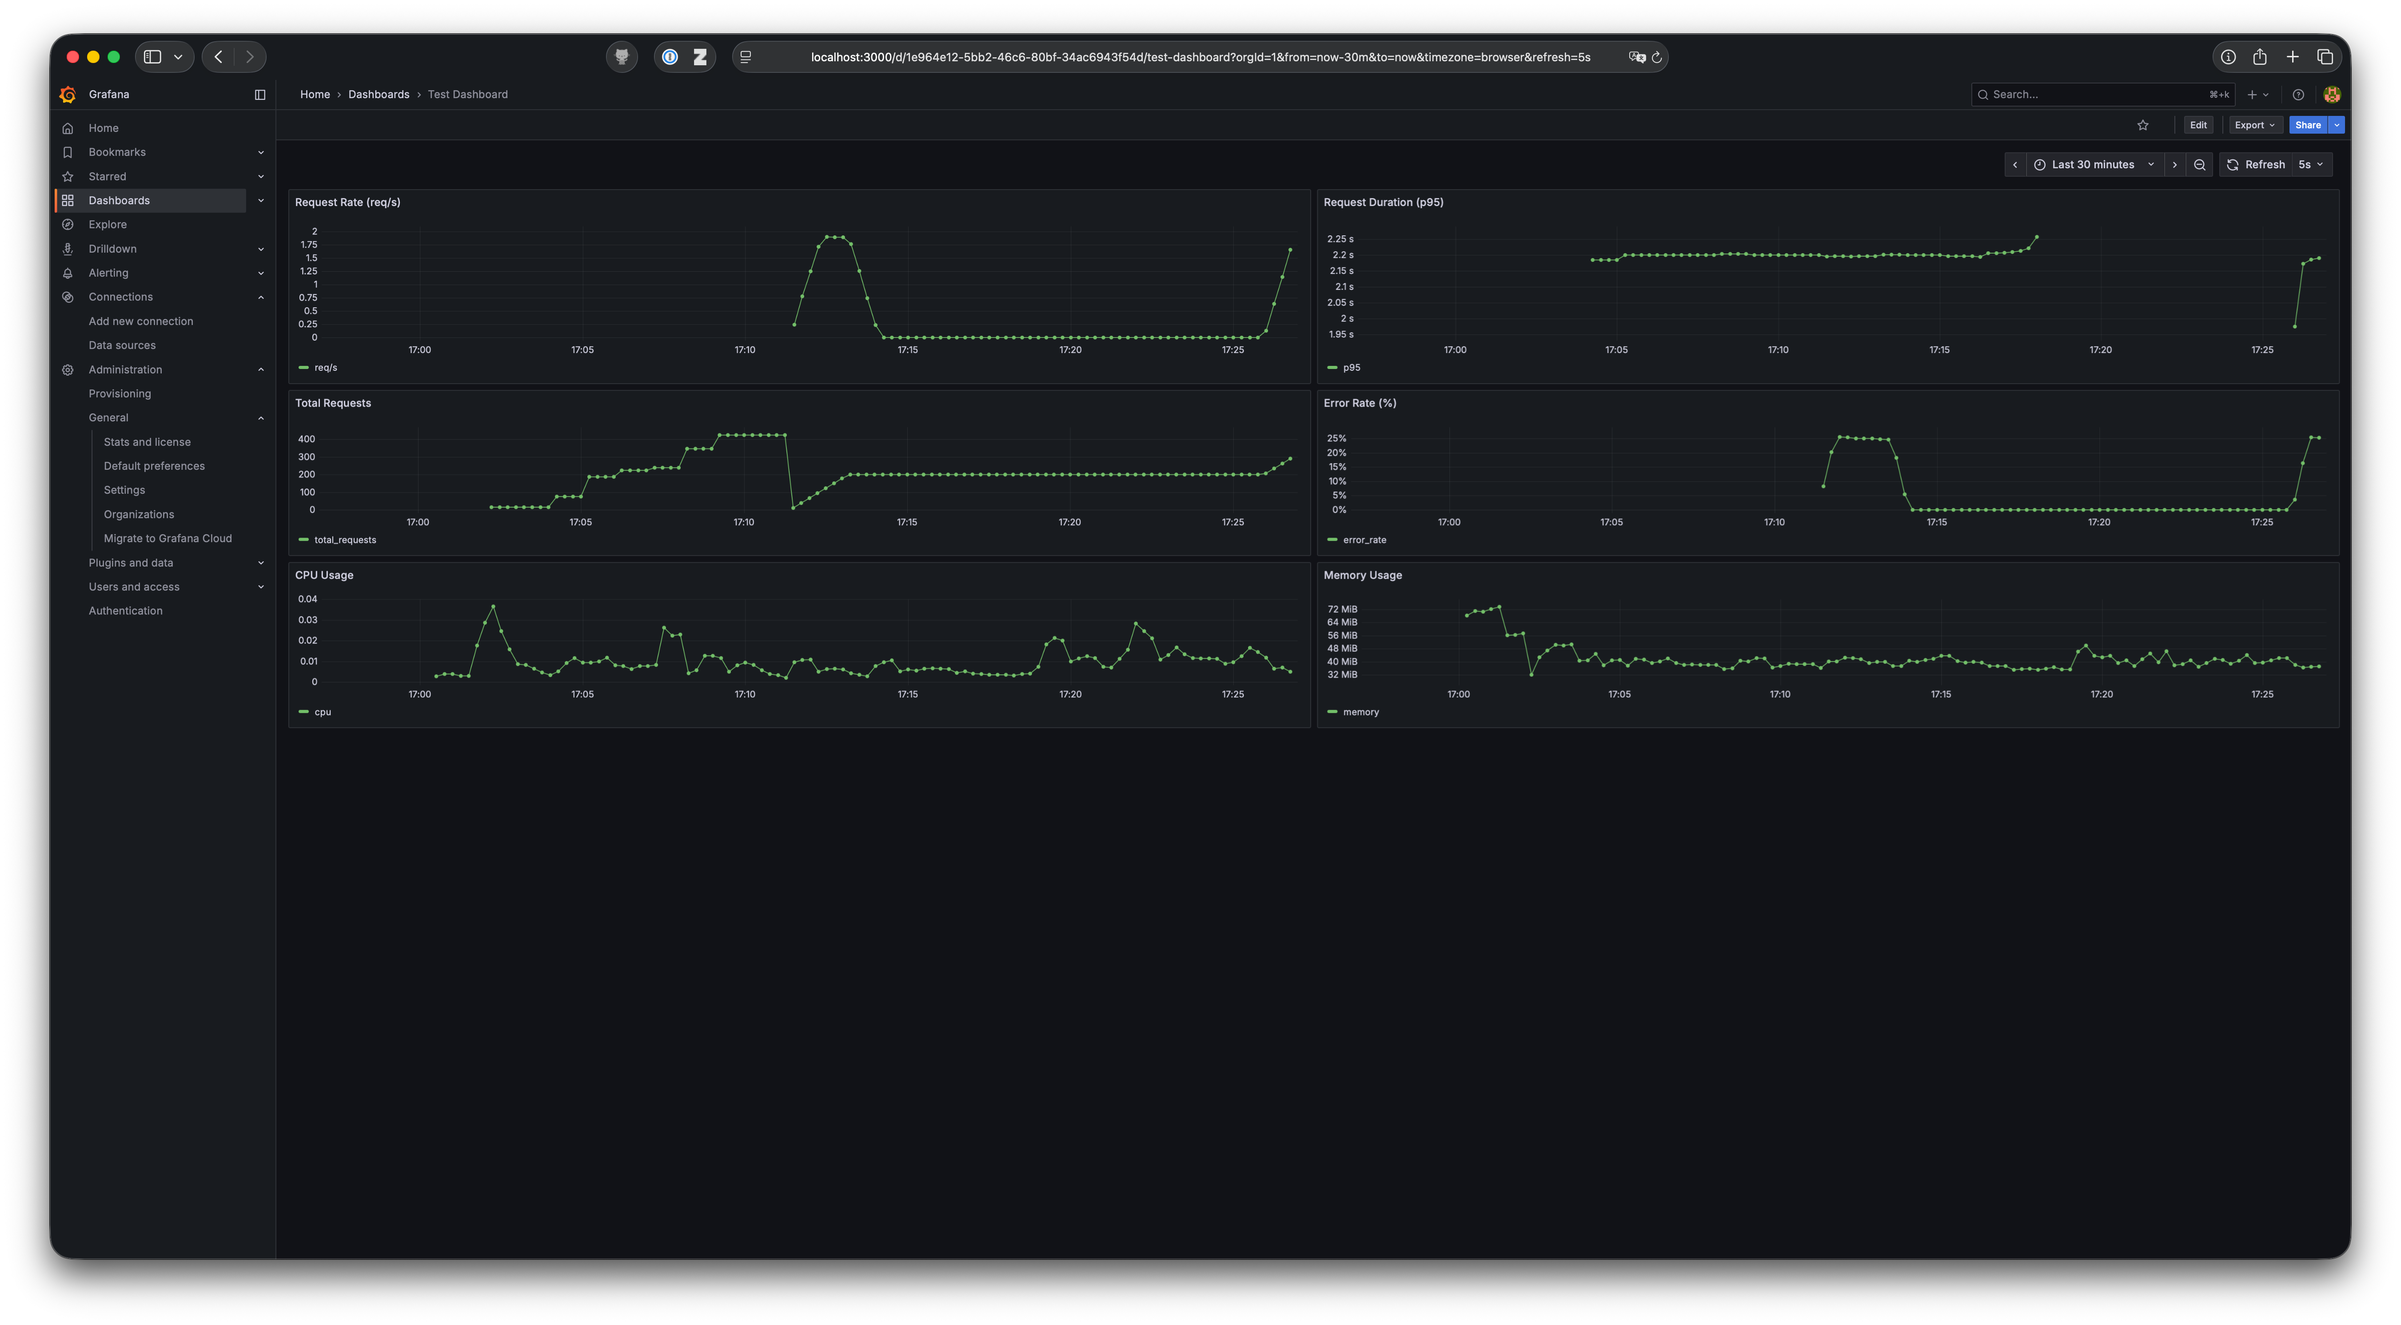
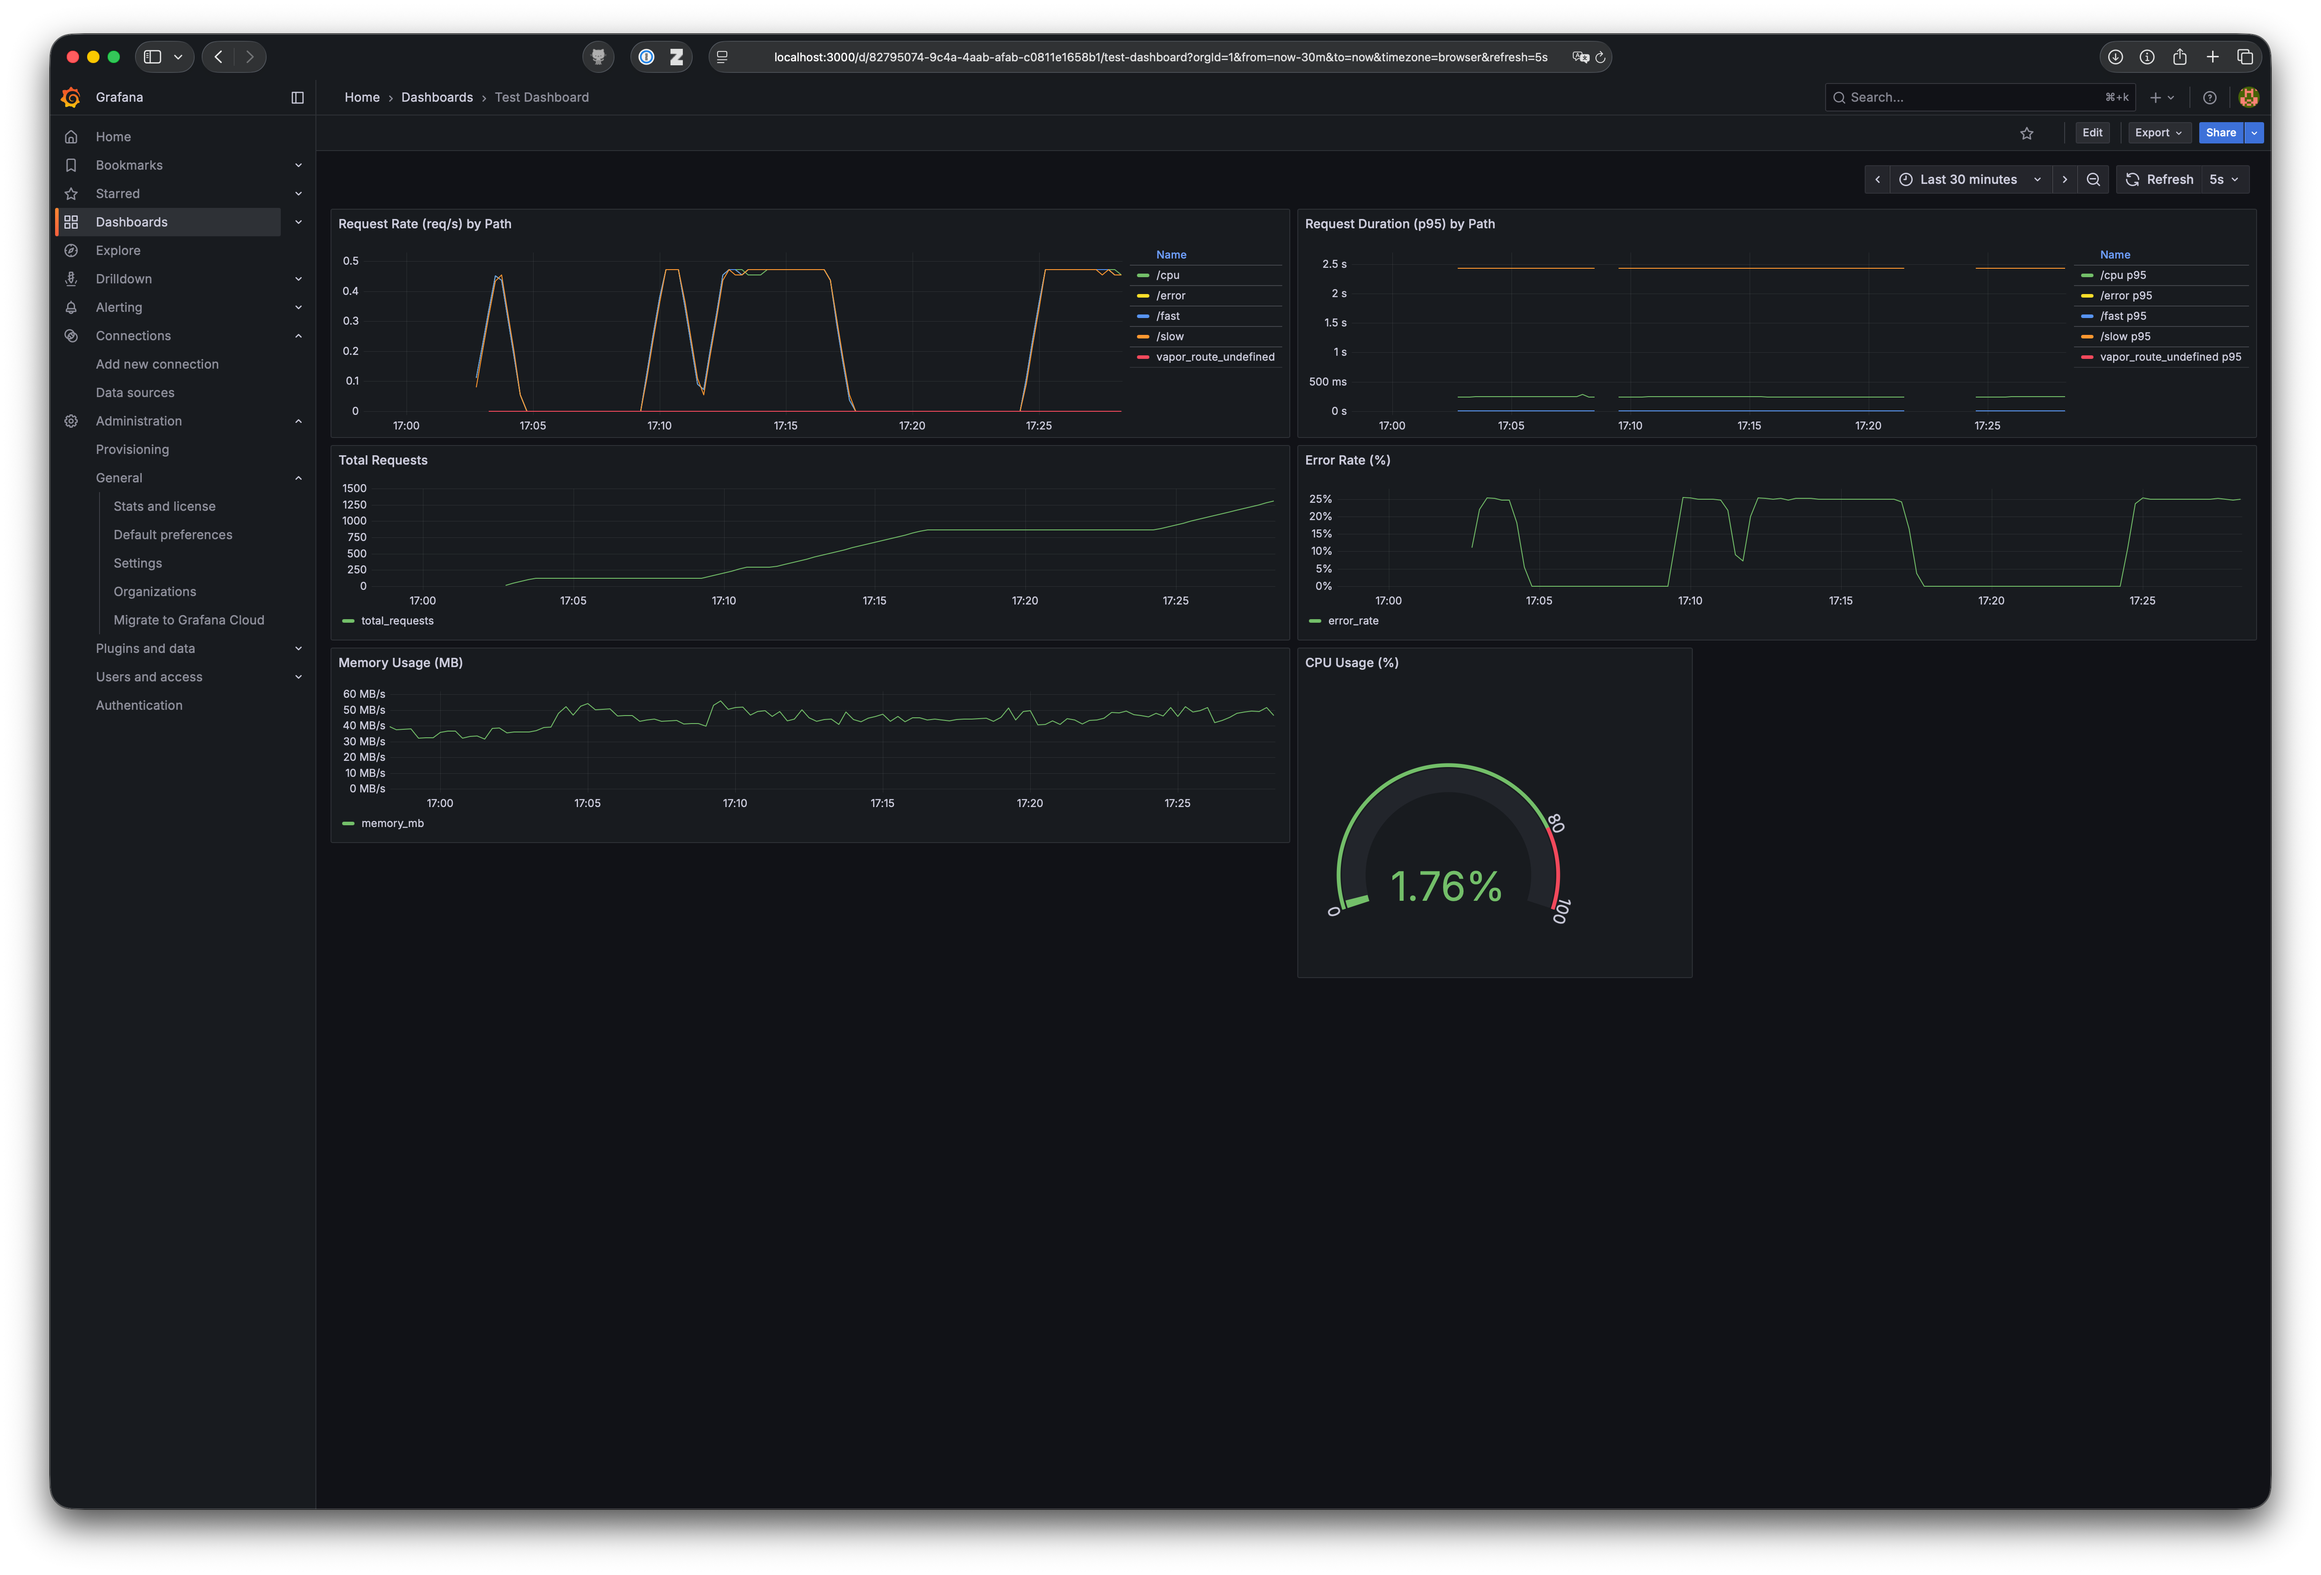
Add deployment steps

diff --git a/Content/posts/otel-integration.md b/Content/posts/otel-integration.md
@@ -62,7 +62,7 @@ import OTel
 import ServiceLifecycle
 import Vapor
 
-actor OTelMetricsExporterLifecycleHandler: LifecycleHandler {
+actor OTelLifecycleHandler: LifecycleHandler {
     let observability: any Service
     private var task: Task<Void, any Error>?
     
@@ -92,7 +92,7 @@ config.traces.enabled = false
 config.metrics.otlpExporter.protocol = .grpc
 
 let observability = try OTel.bootstrap(configuration: config)
-app.lifecycle.use(OTelMetricsExporterLifecycleHandler(observability: observability))
+app.lifecycle.use(OTelLifecycleHandler(observability: observability))
 ```
 
 We'll also need to tell Vapor where to send the metrics to. By default, OTel sends data to `http://localhost:4317`, which is where our OTel Collector will be listening. Although you don't need to, we'll still define it explicitly in an env var, so we can change it easily later if needed:
@@ -109,7 +109,7 @@ receivers:
   otlp:
     protocols:
       grpc:
-        endpoint: otel-collector:4317
+        endpoint: :4317
 
 # Export metrics to Prometheus
 exporters:
@@ -132,7 +132,7 @@ In the same `observability` folder, create a file called `prometheus-config.yaml
 ```yaml
 services:
   otel-collector:
-    image: public.ecr.aws/aws-observability/aws-otel-collector:latest
+    image: otel/opentelemetry-collector-contrib:latest
     command: ["--config=/etc/otel-collector-config.yaml"]
     ports:
       - "4317:4317"
@@ -200,31 +200,43 @@ And that's it! Once the Docker Compose stack is running, you should be able to a
   "panels": [
     {
       "type": "timeseries",
-      "title": "Request Rate (req/s)",
+      "title": "Request Rate (req/s) by Path",
       "id": 1,
       "datasource": "Prometheus",
       "targets": [
         {
           "refId": "A",
-          "expr": "sum(rate(http_requests_total[1m]))",
-          "legendFormat": "req/s"
+          "expr": "sum(rate(http_requests_total[1m])) by (path)",
+          "legendFormat": "{{path}}"
         }
       ],
+      "options": {
+        "legend": {
+          "displayMode": "table",
+          "placement": "right"
+        }
+      },
       "gridPos": { "h": 7, "w": 12, "x": 0, "y": 0 }
     },
     {
       "type": "timeseries",
-      "title": "Request Duration (p95)",
+      "title": "Request Duration (p95) by Path",
       "id": 2,
       "datasource": "Prometheus",
       "targets": [
         {
           "refId": "A",
-          "expr": "histogram_quantile(0.95, sum(rate(http_request_duration_seconds_bucket[5m])) by (le))",
-          "legendFormat": "p95"
+          "expr": "histogram_quantile(0.95, sum(rate(http_request_duration_seconds_bucket[5m])) by (le, path))",
+          "legendFormat": "{{path}} p95"
         }
       ],
       "fieldConfig": { "defaults": { "unit": "s" } },
+      "options": {
+        "legend": {
+          "displayMode": "table",
+          "placement": "right"
+        }
+      },
       "gridPos": { "h": 7, "w": 12, "x": 12, "y": 0 }
     },
     {
@@ -258,32 +270,49 @@ And that's it! Once the Docker Compose stack is running, you should be able to a
     },
     {
       "type": "timeseries",
-      "title": "CPU Usage",
-      "id": 9,
-      "datasource": "Prometheus",
-      "targets": [
-        {
-          "refId": "A",
-          "expr": "rate(process_cpu_seconds_total[1m])",
-          "legendFormat": "cpu"
-        }
-      ],
-      "gridPos": { "h": 6, "w": 12, "x": 0, "y": 25 }
-    },
-    {
-      "type": "timeseries",
-      "title": "Memory Usage",
+      "title": "Memory Usage (MB)",
       "id": 10,
       "datasource": "Prometheus",
       "targets": [
         {
           "refId": "A",
-          "expr": "process_resident_memory_bytes",
-          "legendFormat": "memory"
+          "expr": "process_resident_memory_bytes / 1024 / 1024",
+          "legendFormat": "memory_mb"
         }
       ],
-      "fieldConfig": { "defaults": { "unit": "bytes" } },
-      "gridPos": { "h": 6, "w": 12, "x": 12, "y": 25 }
+      "fieldConfig": {
+        "defaults": {
+          "unit": "MBs",
+          "min": 0
+        }
+      },
+      "gridPos": { "h": 6, "w": 12, "x": 0, "y": 12 }
+    },
+    {
+      "type": "gauge",
+      "title": "CPU Usage (%)",
+      "id": 9,
+      "datasource": "Prometheus",
+      "targets": [
+        {
+          "refId": "A",
+          "expr": "100 * rate(process_cpu_seconds_total[1m])",
+          "legendFormat": "cpu_percent"
+        }
+      ],
+      "fieldConfig": {
+        "defaults": {
+          "unit": "percent",
+          "min": 0,
+          "max": 100
+        }
+      },
+      "options": {
+        "orientation": "vertical",
+        "showThresholdLabels": true,
+        "showThresholdMarkers": true
+      },
+      "gridPos": { "h": 12, "w": 5, "x": 12, "y": 12 }
     }
   ]
 }
@@ -295,4 +324,150 @@ Once added, you can start requesting your Vapor application and see the metrics 
 
 ## Deployment on AWS
 
-TODO 
+In this section we'll briefly cover how to deploy the monitoring setup on AWS using ECS Fargate. This assumes that there's already an existing Fargate stack with a Vapor service running, possibly defined using a JSON task definition.
+
+### AWS Managed Prometheus
+
+To store the metrics on AWS, we can use [AWS Managed Prometheus](https://aws.amazon.com/prometheus/), which is a fully managed service that makes it easy to monitor and alert on your containerized applications and infrastructure. 
+First, we need to create a new Prometheus workspace in the AWS Management Console. A workspace is simply a Prometheus instance we can send data to, tell to scrape data, and query data from.
+
+To create a new workspace, visit https://console.aws.amazon.com/prometheus/home and click on "Create workspace". 
+Give it a name (it doesn't need to be unique) and create the workspace. Once created, navigate to the workspace and copy the "Remote write endpoint" URL, which we'll need later.
+
+You can also create it using the AWS CLI:
+
+```bash
+aws amp create-workspace --alias <your_workspace_name>
+```
+
+### OTel Collector sidecar
+
+Now that we have a Prometheus workspace, we need to set up the OTel Collector as a sidecar in our existing ECS task definition. Adding this to your existing task-definition should do the trick:
+
+```json
+{
+  "name": "aws-otel-collector",
+  "image": "public.ecr.aws/aws-observability/aws-otel-collector:latest",
+  "essential": true,
+  "secrets": [
+    {
+      "name": "AOT_CONFIG_CONTENT",
+      "valueFrom": "otel-collector-config"
+    }
+  ],
+  "logConfiguration": {
+    "logDriver": "awslogs",
+    "options": {
+      "awslogs-group": "researchrabbit/ecs/api-service-otel-collector",
+      "awslogs-region": "{{ region }}",
+      "awslogs-stream-prefix": "ecs",
+      "awslogs-create-group": "True"
+    }
+  }
+}
+```
+
+Just replace the `{{ region }}` placeholder with your AWS region.
+
+Then we need a way to inject the OTel Collector configuration into the sidecar. The recommended way to do this on AWS is via an AWS System Manager parameter. Create a new parameter called `otel-collector-config` with the following content:
+
+```yaml
+receivers:
+  otlp:
+    protocols:
+      grpc:
+        endpoint: :4317
+  awsecscontainermetrics:
+    collection_interval: 20s
+
+processors:
+  filter:
+    metrics:
+      include:
+        match_type: strict
+        metric_names:
+          - ecs.task.memory.utilized
+          - ecs.task.memory.reserved
+          - ecs.task.cpu.utilized
+          - ecs.task.cpu.reserved
+          - ecs.task.network.rate.rx
+          - ecs.task.network.rate.tx
+          - ecs.task.storage.read_bytes
+          - ecs.task.storage.write_bytes
+
+exporters:
+  prometheusremotewrite:
+    endpoint: "{{ prometheus_remote_write_endpoint }}"
+    auth:
+      authenticator: sigv4auth
+  debug:
+    verbosity: detailed
+extensions:
+  health_check:
+  pprof:
+    endpoint: :1888
+  zpages:
+    endpoint: :55679
+  sigv4auth:
+    region: {{ region }}
+
+service:
+  extensions: [pprof, zpages, health_check, sigv4auth]
+  pipelines:
+    metrics:
+      receivers: [otlp]
+      exporters: [debug, prometheusremotewrite]
+    metrics/ecs:
+      receivers: [awsecscontainermetrics]
+      processors: [filter]
+      exporters: [debug, prometheusremotewrite]
+```
+
+Again, replace the `{{ region }}` and `{{ prometheus_remote_write_endpoint }}` placeholders with your AWS region and the Prometheus remote write endpoint. Make sure the Prometheus endpoint contains the full URL, including the `https://` and `/api/v1/write` parts.
+
+Finally, the ECS task role needs permissions to read the SSM parameter and to write to the Prometheus workspace. Attach the following policy to your ECS task role (or create a new one):
+
+```json
+{
+  "Version": "2012-10-17",
+  "Statement": [
+    {
+      "Effect": "Allow",
+      "Action": [
+        "ssm:GetParameter",
+      ],
+      "Resource": "arn:aws:ssm:{{ region }}:{{ account_id }}:parameter/otel-collector-config"
+    },
+    {
+      "Effect": "Allow",
+      "Action": [
+          "aps:RemoteWrite"
+      ],
+      "Resource": "arn:aws:aps:{{ region }}:{{ account_id }}:workspace/{{ workspace_id }}"
+    }
+  ]
+}
+```
+
+Replace the `{{ region }}`, `{{ account_id }}`, and `{{ workspace_id }}` placeholders with your AWS region, account ID, and Prometheus workspace ID.
+
+> Note: this is different to the task **execution** role, which is used by ECS to pull the container images. The task role is assumed by the containers themselves.
+
+Now you can deploy the updated task definition to your ECS service. The OTel Collector sidecar will start collecting metrics from your Vapor application and sending them to AWS Managed Prometheus.
+
+### Grafana
+
+For visualizing the metrics, we can use [AWS Managed Grafana](https://aws.amazon.com/grafana/).
+Create a new Grafana workspace in the AWS Management Console. Once created, switch to the "Data sources" tab and add a new data source. Select "Prometheus" as the data source type and enable the "AWS Managed Service for Prometheus" option. 
+
+Now you need to give access to your user to the Grafana workspace. This is really simple: on the "Authentication" tab of your Grafana workspace, just add your IAM user or role and assign it the "Admin" role. This will grant you access to add data sources and create dashboards.
+
+Then, navigate to the workspace and set up a data source for Prometheus using the Prometheus workspace we created earlier.
+
+Finally, you can create dashboards in Grafana just like we did in the local setup. If you want to reuse the same dashboard JSON, just import it into your AWS Managed Grafana, but be sure to change the memory and CPU metrics queries to use the AWS ECS metric names:
+```promql
+ecs_task_memory_utilized
+ecs_task_cpu_utilized
+```
+
+And there you have it! You've successfully instrumented your Vapor 4 application with OpenTelemetry, set up a monitoring stack using Prometheus and Grafana, and deployed it on AWS using ECS Fargate. Now you can monitor your application's performance and health in real-time. Happy monitoring!
